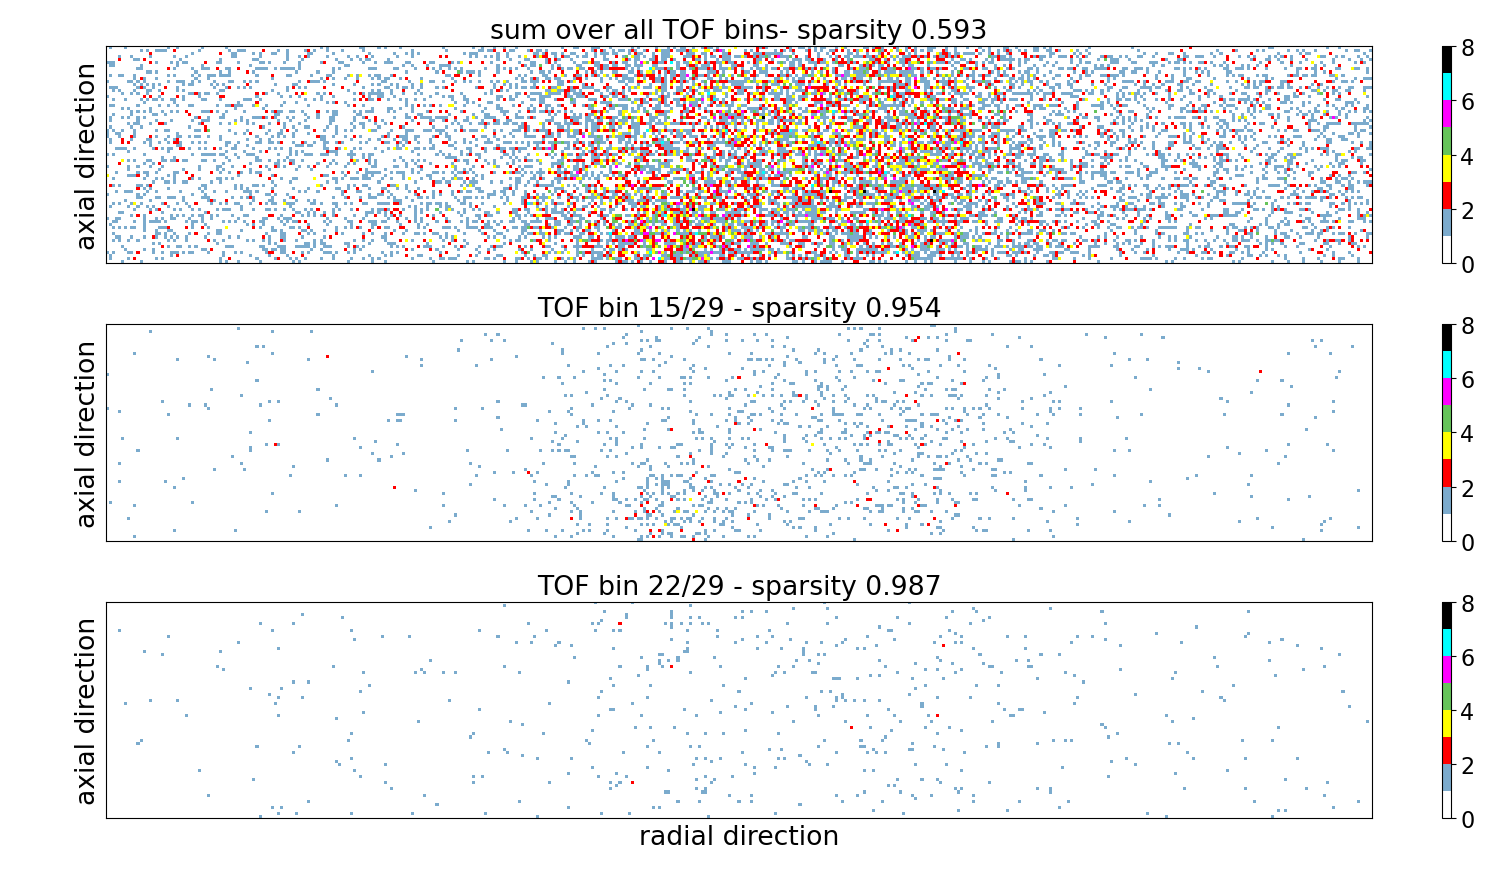
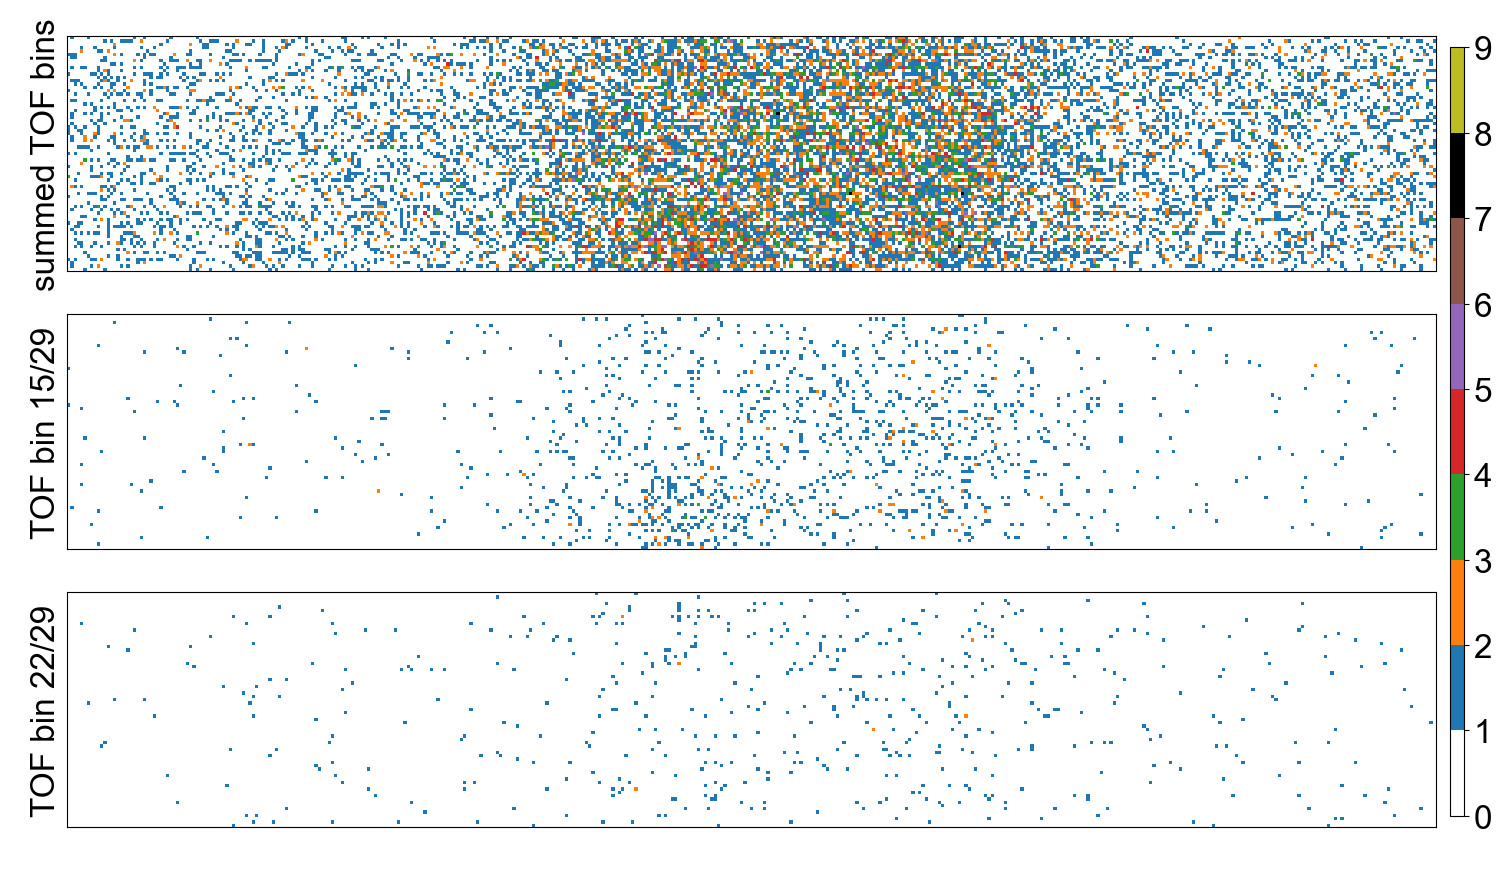
cosmetics on sparsity figure

diff --git a/docs/paper/scripts/sparsity.py b/docs/paper/scripts/sparsity.py
@@ -3,47 +3,56 @@ import matplotlib.pyplot as plt
 import numpy as np
 from matplotlib.colors import ListedColormap
 
-plt.rcParams['font.size'] = 16
+plt.rcParams['font.size'] = 24
+
+plt.rcParams['font.sans-serif'] = ['Arial']
 
 with h5py.File('../data/rdf.4.1', 'r') as data:
   view = data['/emission/view11'][:]
 
+vmax = int(view.sum(0).max() + 1)
 
-cm = ListedColormap(np.array([[1.0, 1.0, 1.0, 1.],
-                              [109/225, 171/255, 205/255, 1.],
-                              [1.0, 0.0, 0.0, 1.],
-                              [1.0, 1.0, 0.0, 1.],
-                              [ 90/225, 196/255,  90/255, 1.],
-                              [1.0, 0.0, 1.0, 1.],
-                              [0.0, 1.0, 1.0, 1.],
-                              [0.0, 0.0, 0.0, 1.]]))
+ca = np.array([[1         , 1         , 1         , 1.        ],
+               [0.12156863, 0.46666667, 0.70588235, 1.        ],
+               [1.        , 0.49803922, 0.05490196, 1.        ],
+               [0.17254902, 0.62745098, 0.17254902, 1.        ],
+               [0.83921569, 0.15294118, 0.15686275, 1.        ],
+               [0.58039216, 0.40392157, 0.74117647, 1.        ],
+               [0.54901961, 0.3372549 , 0.29411765, 1.        ],
+               [0.        , 0.        , 0.        , 1.        ],
+               [0.7372549 , 0.74117647, 0.13333333, 1.        ],
+               [0.49803922, 0.49803922, 0.49803922, 1.        ],
+               [0.09019608, 0.74509804, 0.81176471, 1.        ]])[:vmax,:]
+
+cm = ListedColormap(ca)
 
 
 fig, ax = plt.subplots(3,1, figsize = (15,3*2.9))
-im0 = ax[0].imshow(view.sum(0),  vmax = 8, cmap = cm)
-plt.colorbar(im0, ax = ax[0], fraction = 0.01, shrink = 1.0, aspect = 25)
-ax[0].set_title(f'sum over all TOF bins- sparsity {(view.sum(0) == 0).sum() / view.sum(0).size:.3f}')
+im0 = ax[0].imshow(view.sum(0),  vmax = vmax, cmap = cm)
+#ax[0].set_title(f'sum over all TOF bins- sparsity {(view.sum(0) == 0).sum() / view.sum(0).size:.3f}')
+ax[0].set_ylabel(f'summed TOF bins')
 
 i = 14
-im1 = ax[1].imshow(view[i,...], vmax = 8, cmap = cm)
-plt.colorbar(im1, ax = ax[1], fraction = 0.01, shrink = 1.0, aspect = 25)
-ax[1].set_title(f'TOF bin {i+1}/29 - sparsity {(view[i,...] == 0).sum() / view[i,...].size:.3f}')
+im1 = ax[1].imshow(view[i,...], vmax = vmax, cmap = cm)
+#ax[1].set_title(f'TOF bin {i+1}/29 - sparsity {(view[i,...] == 0).sum() / view[i,...].size:.3f}')
+ax[1].set_ylabel(f'TOF bin {i+1}/29')
 
 i = 21
-im2 = ax[2].imshow(view[20,...], vmax = 8, cmap = cm)
-plt.colorbar(im2, ax = ax[2], fraction = 0.01, shrink = 1.0, aspect = 25)
-ax[2].set_title(f'TOF bin {i+1}/29 - sparsity {(view[i,...] == 0).sum() / view[i,...].size:.3f}')
+im2 = ax[2].imshow(view[20,...], vmax = vmax, cmap = cm)
+#ax[2].set_title(f'TOF bin {i+1}/29 - sparsity {(view[i,...] == 0).sum() / view[i,...].size:.3f}')
+ax[2].set_ylabel(f'TOF bin {i+1}/29')
 
 
 for axx in ax.ravel():
   axx.set_xticks([])
   axx.set_yticks([])
 
-  axx.set_ylabel('axial direction', fontsize = 'large')
-
-ax[-1].set_xlabel('radial direction', fontsize = 'large')
+#ax[1].set_ylabel('plane', fontsize = 'large')
+#ax[-1].set_xlabel('radial bin', fontsize = 'large')
 
 fig.tight_layout()
+fig.colorbar(im2, ax = ax.ravel().tolist(), fraction = 0.01, aspect = 55, pad = 0.01)
+
 fig.savefig('../figs/sparsity.png')
 fig.show()
 
